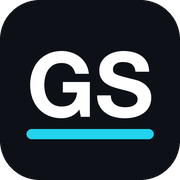
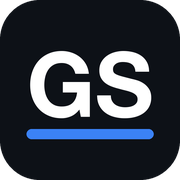
Trim template marks, new accent, photo fix

Changed region(s): [[0.1389, 0.6944, 0.8611, 0.7778]]

diff --git a/src/app/resources/content.js b/src/app/resources/content.js
@@ -7,7 +7,7 @@ const person = {
     return `${this.firstName} ${this.lastName}`;
   },
   role: "Software Engineer",
-  avatar: "/images/avatar-v2.jpg",
+  avatar: "/images/avatar-v3.jpg",
   email: "gurnaindeepsingh@hotmail.com",
   location: "America/Vancouver", // IANA time zone identifier, used for the clock only
   locationLabel: "Vancouver, BC", // what visitors actually read
@@ -135,15 +135,7 @@ const about = {
             aligned across the team.
           </>,
         ],
-        images: [
-          // optional: leave the array empty if you don't want to display images
-          {
-            src: "/images/work/aws/amazon_web_services_logo.jpg",
-            alt: "Amazon Web Services",
-            width: 9,
-            height: 7,
-          },
-        ],
+        images: [],
       },
       {
         company: "Amazon Web Services (AWS)",
@@ -186,14 +178,7 @@ const about = {
             doing ML 10x easier compared to coding solutions.
           </>,
         ],
-        images: [
-          {
-            src: "/images/work/amd/amd_logo.jpg",
-            alt: "Advanced Micro Devices",
-            width: 9,
-            height: 7,
-          },
-        ],
+        images: [],
       },
       {
         company: "Catalytics Inc.",
@@ -266,14 +251,7 @@ const about = {
           </>
         ),
         // optional: leave the array empty if you don't want to display images
-        images: [
-          {
-            src: "/images/projects/fixit/cover-01.jpg",
-            alt: "Project image",
-            width: 16,
-            height: 9,
-          },
-        ],
+        images: [],
       },
       {
         title: "Speech-Assist",
@@ -287,14 +265,7 @@ const about = {
           </>
         ),
         // optional: leave the array empty if you don't want to display images
-        images: [
-          {
-            src: "/images/projects/speech-assist/cover-01.jpg",
-            alt: "Project image",
-            width: 16,
-            height: 9,
-          },
-        ],
+        images: [],
       },
       {
         title: "Test Your Reaction!",
@@ -306,14 +277,7 @@ const about = {
           </>
         ),
         // optional: leave the array empty if you don't want to display images
-        images: [
-          {
-            src: "/images/projects/reaction-game/cover-01.jpg",
-            alt: "Project image",
-            width: 16,
-            height: 9,
-          },
-        ],
+        images: [],
       },
     ],
   },

diff --git a/src/app/resources/config.js b/src/app/resources/config.js
@@ -40,8 +40,8 @@ const font = {
 const style = {
   theme: "dark", // theme is not necessary when using ThemeProvider (default)
   neutral: "gray", // sand | gray | slate
-  brand: "cyan", // blue | indigo | violet | magenta | pink | red | orange | yellow | moss | green | emerald | aqua | cyan
-  accent: "red", // blue | indigo | violet | magenta | pink | red | orange | yellow | moss | green | emerald | aqua | cyan
+  brand: "blue", // blue | indigo | violet | magenta | pink | red | orange | yellow | moss | green | emerald | aqua | cyan
+  accent: "indigo", // blue | indigo | violet | magenta | pink | red | orange | yellow | moss | green | emerald | aqua | cyan
   solid: "contrast", // color | contrast
   solidStyle: "flat", // flat | plastic
   border: "playful", // rounded | playful | conservative
@@ -92,8 +92,8 @@ const effects = {
 };
 
 const display = {
-  location: true,
-  time: true,
+  location: false, // template corner labels, removed
+  time: false,
   themeSwitcher: true,
 };
 

diff --git a/src/app/og/route.tsx b/src/app/og/route.tsx
@@ -34,7 +34,7 @@ export async function GET(request: Request) {
             height: "220px",
             objectFit: "cover",
             borderRadius: "100%",
-            border: "6px solid #22d3ee",
+            border: "6px solid #3b82f6",
           }}
         />
         <div style={{ display: "flex", flexDirection: "column", gap: "18px" }}>
@@ -47,7 +47,7 @@ export async function GET(request: Request) {
         </div>
       </div>
       <div style={{ display: "flex", flexDirection: "column", gap: "28px" }}>
-        <div style={{ display: "flex", width: "120px", height: "8px", borderRadius: "8px", background: "#22d3ee" }} />
+        <div style={{ display: "flex", width: "120px", height: "8px", borderRadius: "8px", background: "#3b82f6" }} />
         <span style={{ fontSize: "46px", lineHeight: "58px", maxWidth: "1000px" }}>
           {extra || "Building AI agents and cloud infrastructure."}
         </span>
